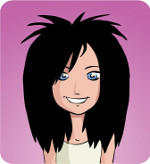
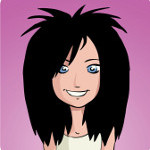
#7 profile pic refelected in various places

diff --git a/server/points.js b/server/points.js
@@ -1,183 +1,183 @@
  calculatePoints = function (competitionId) {
-     var matches = Matches.find({
-         competitionId: competitionId,
-         date: {
-             $lt: new Date()
-         }
-     });
+ 	var matches = Matches.find({
+ 		competitionId: competitionId,
+ 		date: {
+ 			$lt: new Date()
+ 		}
+ 	});
 
-     var questions = Questions.find({
-         competitionId: competitionId,
-         date: {
-             $lt: new Date()
-         }
-     });
+ 	var questions = Questions.find({
+ 		competitionId: competitionId,
+ 		date: {
+ 			$lt: new Date()
+ 		}
+ 	});
 
-     var predictionMap = Predictions.find({
-         competitionId: competitionId
-     }).fetch().reduce(function (map, obj) {
-         if (!map[obj.userId]) {
-             map[obj.userId] = {}
-         }
-         map[obj.userId][obj.itemId] = obj;
-         return map;
-     }, {});
+ 	var predictionMap = Predictions.find({
+ 		competitionId: competitionId
+ 	}).fetch().reduce(function (map, obj) {
+ 		if (!map[obj.userId]) {
+ 			map[obj.userId] = {}
+ 		}
+ 		map[obj.userId][obj.itemId] = obj;
+ 		return map;
+ 	}, {});
 
-     var resultMap = Results.find({
-         competitionId: competitionId
-     }).fetch().reduce(function (map, obj) {
-         //TODO: consider the highest weighted here if multiple exists
-         map[obj.itemId] = obj;
-         return map;
-     }, {});
+ 	var resultMap = Results.find({
+ 		competitionId: competitionId
+ 	}).fetch().reduce(function (map, obj) {
+ 		//TODO: consider the highest weighted here if multiple exists
+ 		map[obj.itemId] = obj;
+ 		return map;
+ 	}, {});
 
-     var infos = [];
+ 	var infos = [];
 
-     Object.keys(predictionMap).forEach(function (userId) {
-         matches.forEach(function (match) {
-             var info = {};
-             info._id = match._id + '_' + userId;
-             info.matchId = match._id;
-             info.userId = userId;
-             info.competitionId = competitionId;
-             info.endDate = match.date;
-             info.points = 0;
+ 	Object.keys(predictionMap).forEach(function (userId) {
+ 		matches.forEach(function (match) {
+ 			var info = {};
+ 			info._id = match._id + '_' + userId;
+ 			info.matchId = match._id;
+ 			info.userId = userId;
+ 			info.competitionId = competitionId;
+ 			info.endDate = match.date;
+ 			info.points = 0;
 
-             var prediction = predictionMap[userId][match._id];
-             if (prediction) {
-                 info.predictionDate = prediction.date;
-             }
+ 			var prediction = predictionMap[userId][match._id];
+ 			if (prediction) {
+ 				info.predictionDate = prediction.date;
+ 			}
 
-             var result = resultMap[match._id];
-             if (result) {
-                 info.resultId = result._id;
-             }
+ 			var result = resultMap[match._id];
+ 			if (result) {
+ 				info.resultId = result._id;
+ 			}
 
-             if (prediction && result) {
-                 //calculate the actual points
-                 if (result.homeScore == prediction.homeScore && result.awayScore == prediction.awayScore) {
-                     info.points = 3;
-                 } else if ((result.homeScore - result.awayScore) == (prediction.homeScore - prediction.awayScore)) {
-                     info.points = 2;
-                 } else if ((result.homeScore > result.awayScore && prediction.awayScore > prediction.awayScore) || (result.homeScore < result.awayScore && prediction.awayScore < prediction.awayScore)) {
-                     info.points = 1;
-                 }
-             }
+ 			if (prediction && result) {
+ 				//calculate the actual points
+ 				if (result.homeScore == prediction.homeScore && result.awayScore == prediction.awayScore) {
+ 					info.points = 3;
+ 				} else if ((result.homeScore - result.awayScore) == (prediction.homeScore - prediction.awayScore)) {
+ 					info.points = 2;
+ 				} else if ((result.homeScore > result.awayScore && prediction.awayScore > prediction.awayScore) || (result.homeScore < result.awayScore && prediction.awayScore < prediction.awayScore)) {
+ 					info.points = 1;
+ 				}
+ 			}
 
-             infos.push(info);
-         });
+ 			infos.push(info);
+ 		});
 
-         questions.forEach(function (question) {
-             var info = {};
-             info._id = question._id + '_' + userId;
-             info.questionId = question._id;
-             info.userId = userId;
-             info.competitionId = competitionId;
-             info.endDate = question.date;
-             info.points = 0;
+ 		questions.forEach(function (question) {
+ 			var info = {};
+ 			info._id = question._id + '_' + userId;
+ 			info.questionId = question._id;
+ 			info.userId = userId;
+ 			info.competitionId = competitionId;
+ 			info.endDate = question.date;
+ 			info.points = 0;
 
-             var prediction = predictionMap[userId][question._id];
-             if (prediction) {
-                 info.predictionDate = prediction.date;
-             }
+ 			var prediction = predictionMap[userId][question._id];
+ 			if (prediction) {
+ 				info.predictionDate = prediction.date;
+ 			}
 
-             var result = resultMap[question._id];
-             if (result) {
-                 info.resultId = result._id;
-             }
+ 			var result = resultMap[question._id];
+ 			if (result) {
+ 				info.resultId = result._id;
+ 			}
 
-             if (prediction && result) {
-                 if (question.optionType == 'INTEGER') {
-                     if (Math.abs(result.answer - prediction.answer) <= question.threshold) {
-                         info.points = question.points;
-                     } else {
-                         info.points = 0;
-                     }
-                 } else if (result.answer == prediction.answer) {
-                     info.points = question.points;
-                 }
-             }
+ 			if (prediction && result) {
+ 				if (question.optionType == 'INTEGER') {
+ 					if (Math.abs(result.answer - prediction.answer) <= question.threshold) {
+ 						info.points = question.points;
+ 					} else {
+ 						info.points = 0;
+ 					}
+ 				} else if (result.answer == prediction.answer) {
+ 					info.points = question.points;
+ 				}
+ 			}
 
-             infos.push(info);
-         });
-     });
+ 			infos.push(info);
+ 		});
+ 	});
 
-     return infos;
+ 	return infos;
  }
 
  calculateRankings = function (groupId, competitionId) {
-     var allUserPoints = Points.find({
-         competitionId: competitionId
-     }).fetch();
+ 	var allUserPoints = Points.find({
+ 		competitionId: competitionId
+ 	}).fetch();
 
-     //return allUserPoints;
+ 	//return allUserPoints;
 
-     var data = {};
-     allUserPoints.forEach(function (userPointInfo) {
-         var userInfo = UserInfo.findOne({
-             _id: userPointInfo.userId
-         });
+ 	var data = {};
+ 	allUserPoints.forEach(function (userPointInfo) {
+ 		var userInfo = UserInfo.findOne({
+ 			_id: userPointInfo.userId
+ 		});
 
-         if (userInfo.groups.indexOf(groupId) > -1) {
-             if (!data[userPointInfo.userId]) {
-                 var user = Meteor.users.findOne({
-                     _id: userPointInfo.userId
-                 });
+ 		if (userInfo.groups.indexOf(groupId) > -1) {
+ 			if (!data[userPointInfo.userId]) {
+ 				var user = Meteor.users.findOne({
+ 					_id: userPointInfo.userId
+ 				});
 
-                 data[userPointInfo.userId] = {}
-                 data[userPointInfo.userId].username = user.username;
-                 data[userPointInfo.userId].avatar = 'avatar.png';
-                 data[userPointInfo.userId].points = 0;
-             }
-             data[userPointInfo.userId].points += parseInt(userPointInfo.points);
-             if (userPointInfo.predictionDate) {
-                 if (!data[userPointInfo.userId].lastPredictionDate || data[userPointInfo.userId].lastPredictionDate < userPointInfo.predictionDate) {
-                     data[userPointInfo.userId].lastPredictionDate = userPointInfo.predictionDate;
-                 }
-             }
-         }
-     });
-     //return data;
+ 				data[userPointInfo.userId] = {}
+ 				data[userPointInfo.userId].username = user.username;
+ 				data[userPointInfo.userId].avatar = user.profile.avatar;
+ 				data[userPointInfo.userId].points = 0;
+ 			}
+ 			data[userPointInfo.userId].points += parseInt(userPointInfo.points);
+ 			if (userPointInfo.predictionDate) {
+ 				if (!data[userPointInfo.userId].lastPredictionDate || data[userPointInfo.userId].lastPredictionDate < userPointInfo.predictionDate) {
+ 					data[userPointInfo.userId].lastPredictionDate = userPointInfo.predictionDate;
+ 				}
+ 			}
+ 		}
+ 	});
+ 	//return data;
 
-     var dataArray = [];
-     Object.keys(data).forEach(function (userId) {
-         var userPoints = data[userId];
-         dataArray.push(userPoints);
-     });
+ 	var dataArray = [];
+ 	Object.keys(data).forEach(function (userId) {
+ 		var userPoints = data[userId];
+ 		dataArray.push(userPoints);
+ 	});
 
-     dataArray.sort(function (a, b) {
-         if (a.points < b.points)
-             return 1;
-         else if (a.points > b.points)
-             return -1;
-         else if (a.lastPredictionDate < b.lastPredictionDate)
-             return -1;
-         else if (a.lastPredictionDate > b.lastPredictionDate)
-             return 1;
-         else
-             return 0;
-     });
+ 	dataArray.sort(function (a, b) {
+ 		if (a.points < b.points)
+ 			return 1;
+ 		else if (a.points > b.points)
+ 			return -1;
+ 		else if (a.lastPredictionDate < b.lastPredictionDate)
+ 			return -1;
+ 		else if (a.lastPredictionDate > b.lastPredictionDate)
+ 			return 1;
+ 		else
+ 			return 0;
+ 	});
 
-     var rank = 0;
-     var lastPoints = -1;
-     dataArray.forEach(function (entry) {
-         if (entry.points != lastPoints) {
-             rank += 1;
-             entry.rank = rank;
-             lastPoints = entry.points;
-         } else {
-             entry.rank = '-';
-         }
-     });
+ 	var rank = 0;
+ 	var lastPoints = -1;
+ 	dataArray.forEach(function (entry) {
+ 		if (entry.points != lastPoints) {
+ 			rank += 1;
+ 			entry.rank = rank;
+ 			lastPoints = entry.points;
+ 		} else {
+ 			entry.rank = '-';
+ 		}
+ 	});
 
-     return dataArray;
+ 	return dataArray;
  }
 
  upsertCalculatePoints = function (competitionId) {
-     var points = calculatePoints(competitionId);
-     points.forEach(function (point) {
-         Points.upsert({
-             _id: point._id
-         }, point);
-     });
+ 	var points = calculatePoints(competitionId);
+ 	points.forEach(function (point) {
+ 		Points.upsert({
+ 			_id: point._id
+ 		}, point);
+ 	});
  }

diff --git a/client/common/users.html b/client/common/users.html
@@ -1,10 +1,10 @@
 <template name="userSelection">
 	<div class="btn-group">
-		<button data-toggle="dropdown" class="btn btn-primary dropdown-toggle" style="width: 200px;">{{#with getSelectedUser}}<img src="avatar.png" class="img-circle" height="25px">&nbsp;{{username}}{{/with}} <span class="caret"></span></button>
+		<button data-toggle="dropdown" class="btn btn-primary dropdown-toggle" style="width: 200px;">{{#with getSelectedUser}}<img src="{{getUserAvatar _id}}" height="25">&nbsp;{{username}}{{/with}} <span class="caret"></span></button>
 		<ul class="dropdown-menu scrollable-menu user-selection">
 			{{#each getUsers}}
 			<li>
-				<a id="{{_id}}" href="#">{{username}}</a>
+				<a id="{{_id}}" href="#"><img id="{{_id}}" src="{{getUserAvatar _id}}" height="25px">&nbsp;{{username}}</a>
 			</li>
 			{{/each}}
 		</ul>

diff --git a/client/pages/account/changeAvatar.js b/client/pages/account/changeAvatar.js
@@ -18,16 +18,16 @@ Template.changeAvatar.helpers({
 });
 
 Template.changeAvatar.events({
-	'submit form': function (event) {
+	'click .avatarSelect': function (event) {
 		event.preventDefault();
-		var username = $('[id=username]').val();
+		var url = event.target.src;
 
-		Meteor.call('changeUsername', username, function (error, result) {
+		Meteor.call('updateAvatar', getCurrentUser()._id, url, function (error, result) {
 			if (error) {
 				toastr.error(error.reason)
 			} else {
-				toastr.success('Username has successfully been changed.');
-				$('#changeUsername').modal('hide');
+				toastr.success(result);
+				$('#changeAvatar').modal('hide');
 			}
 		});
 	}

diff --git a/server/methods.js b/server/methods.js
@@ -110,7 +110,7 @@ Meteor.startup(function () {
 
 	updateAvatar = function (id, url) {
 		try {
-			var user = Meteor.users.find({
+			var user = Meteor.users.findOne({
 				_id: id
 			});
 			if (!user) {
@@ -125,7 +125,7 @@ Meteor.startup(function () {
 					'profile.date': new Date()
 				}
 			});
-			return user + ' avatar has been updated';
+			return 'User ' + user.username + ' avatar has been updated';
 		} catch (e) {
 			throw new Meteor.Error(500, e.message);
 		}

diff --git a/client/pages/account/changeAvatar.html b/client/pages/account/changeAvatar.html
@@ -8,7 +8,7 @@
 				</div>
 				<div class="modal-body">
 					{{#each getPossibleAvatars}}
-					<img alt="image" class="img-circle" src="{{this}}" style="width:100px;" /> {{/each}}
+					<img alt="image" class="img-circle avatarSelect" src="{{this}}" style="width:100px;" /> {{/each}}
 				</div>
 			</div>
 		</div>
